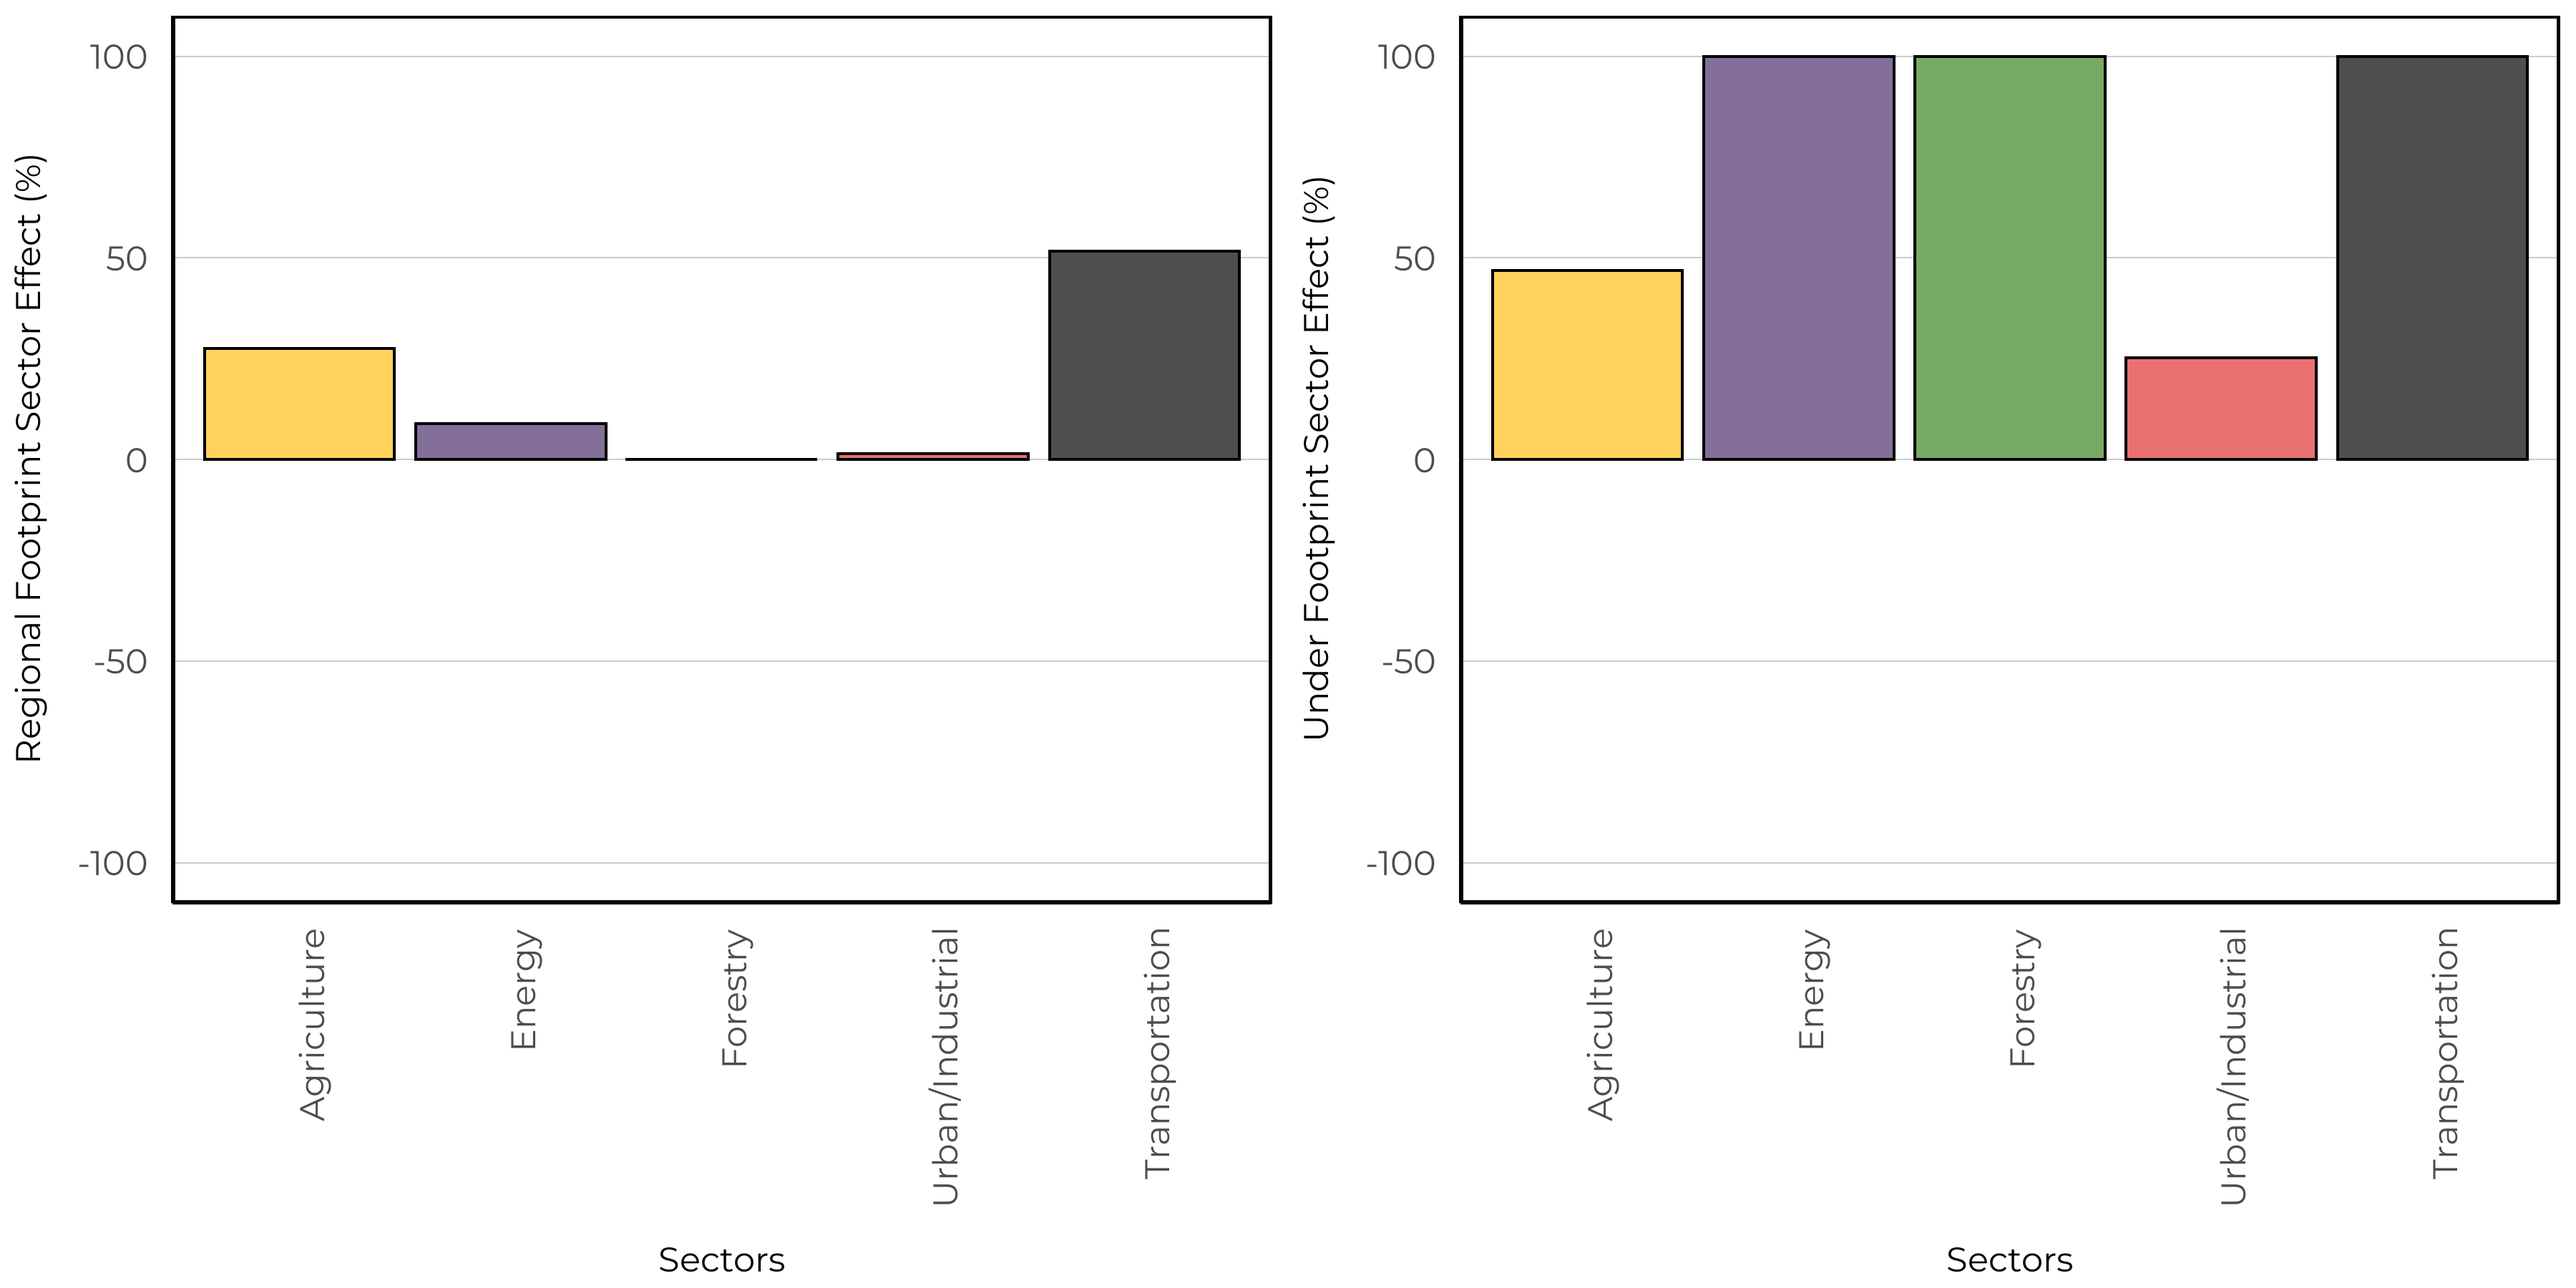
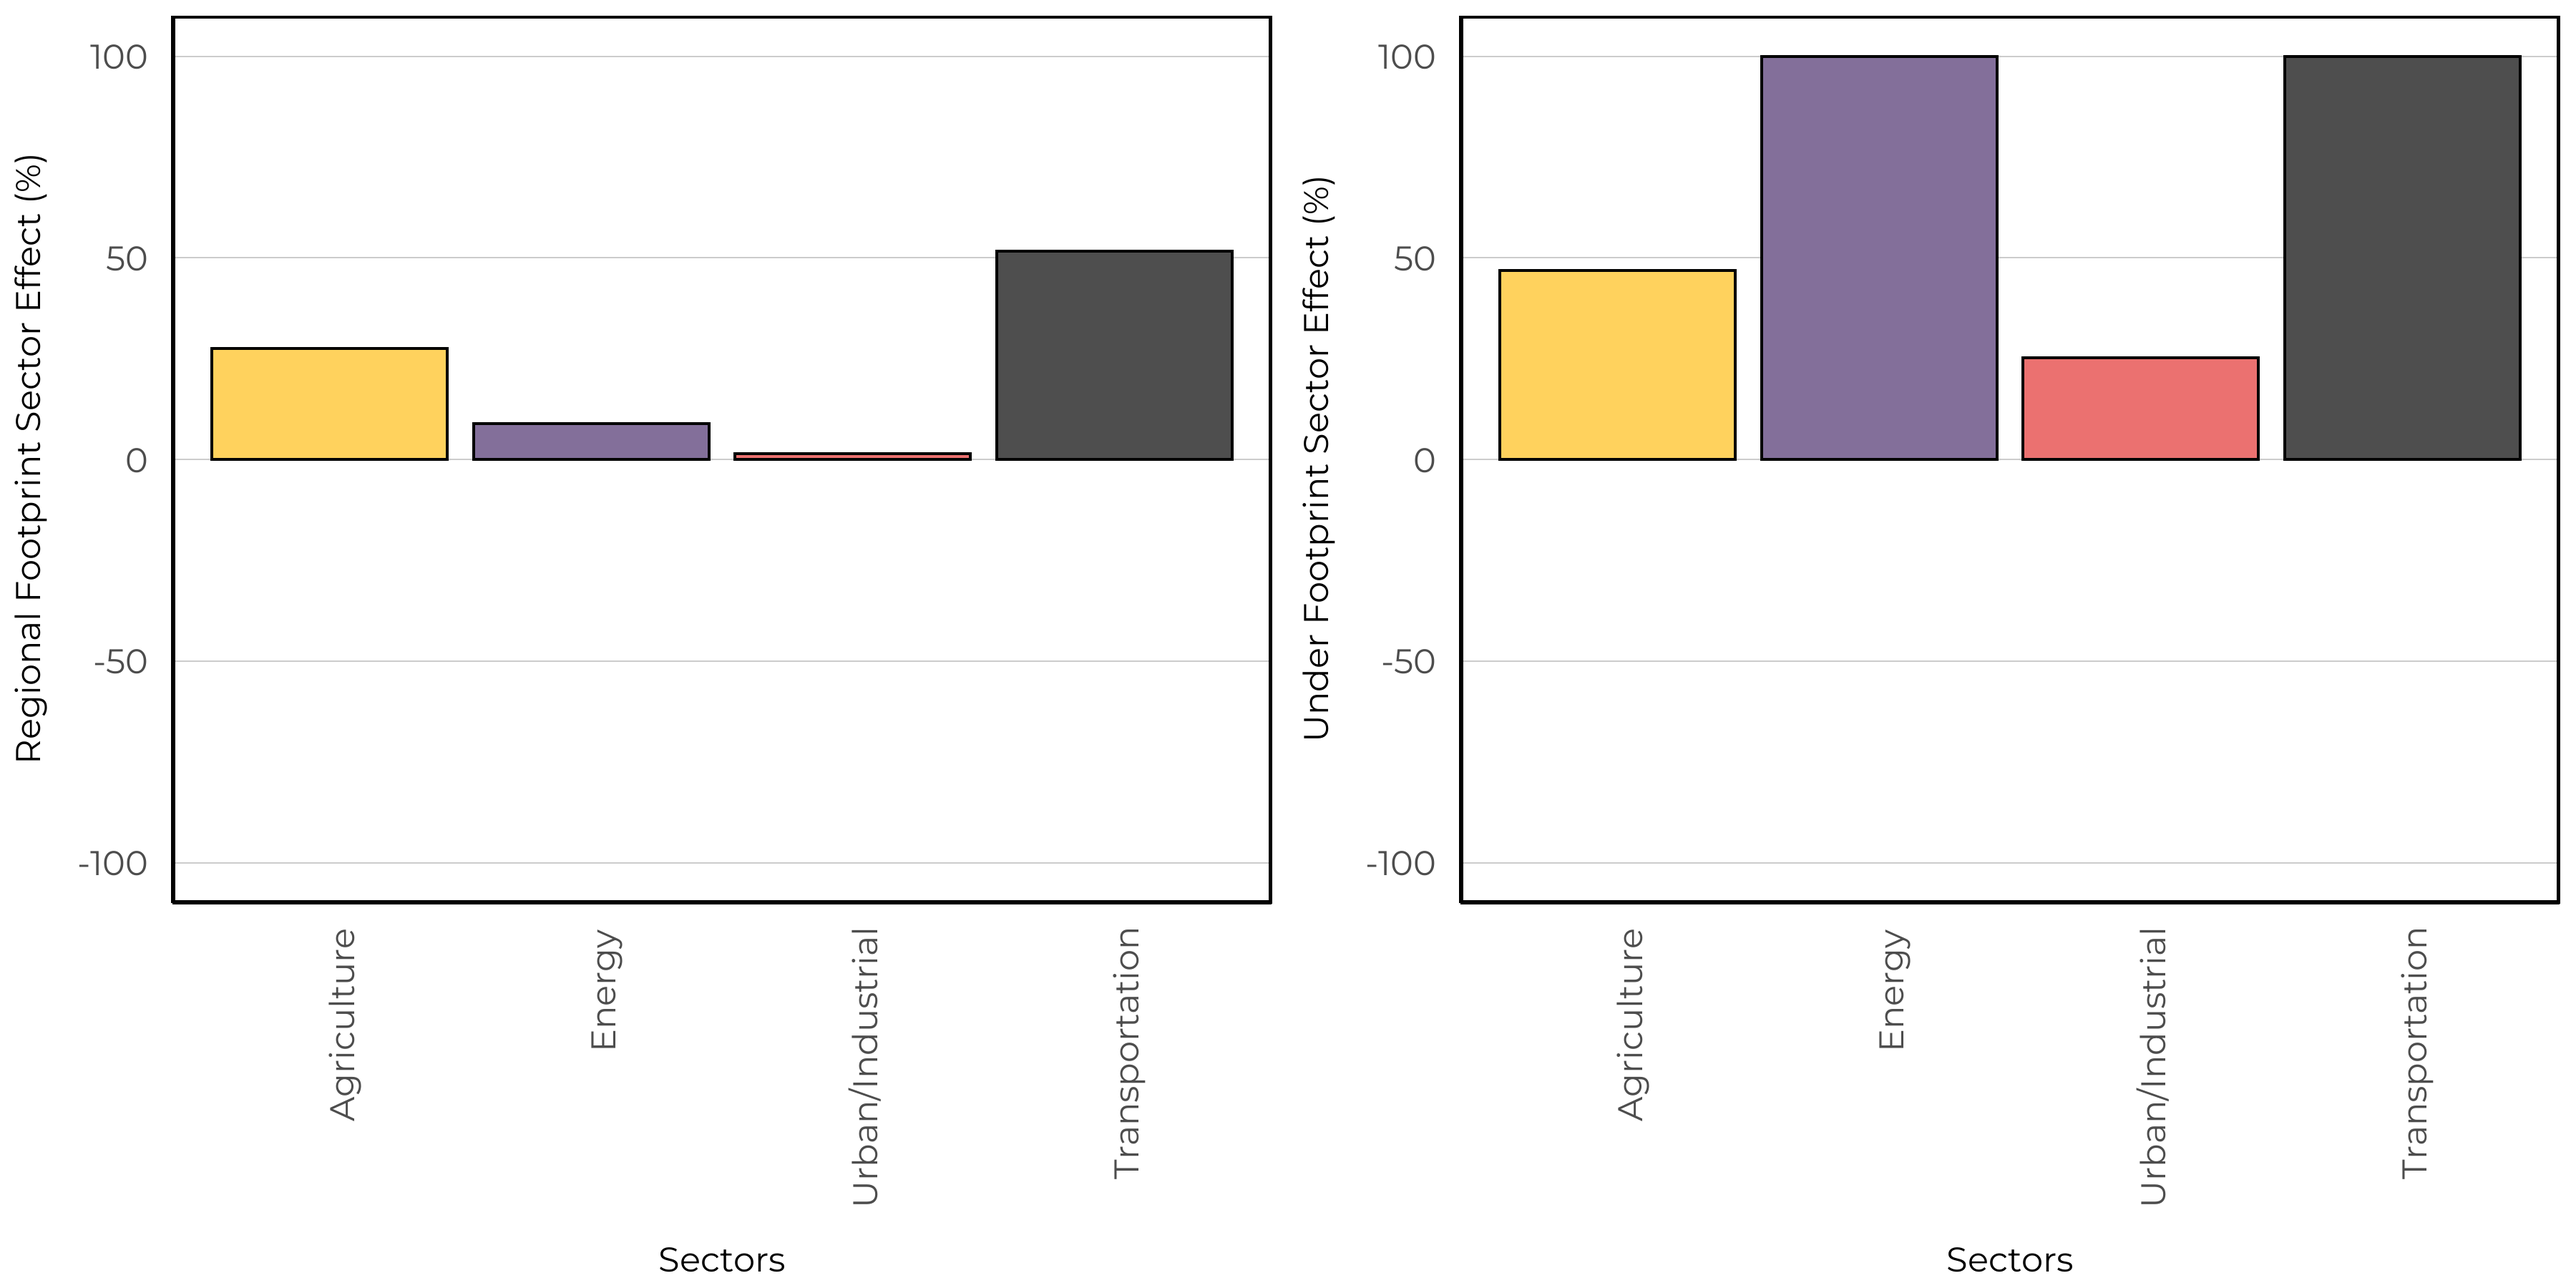
Updated results to properly exclude forestry in the prairie region.

diff --git a/docs/canadian-toad.html b/docs/canadian-toad.html
@@ -310,7 +310,7 @@ div.csl-indent {
 <p>Regional sector effects represent the change in the total regional population by industrial sector for species. This incorporates the area of the footprint, the native habitats where the footprint occurs, and the species response to a particular footprint. Regional population effect values less than 0% indicate a predicted decrease in the regional population due to a particular sector’s footprint, and values greater than 0% indicate a predicted increase.</p>
 <div id="forested-region-1" class="section level3 hasAnchor" number="6.7.1">
 <h3><span class="header-section-number">6.7.1</span> Forested Region<a href="canadian-toad.html#forested-region-1" class="anchor-section" aria-label="Anchor link to header"></a></h3>
-<p>We predicted that Canadian Toad has local negative response to agriculture, energy, forestry, and urban/industrial footprint in this region. There is a small positive response to the transportation sector. However, we only observed small changes in the regional sector effect.</p>
+<p>We predicted that Canadian Toad has local negative response to agriculture, energy, forestry, and urban/industrial footprint in this region. There is a positive response to the transportation sector. However, we only observed small changes in the regional sector effect.</p>
 <center>
 <div class="figure">
 <img src="Amphibians_files/figure-html/sectoreffects/north/CATO.png" alt="" />

diff --git a/docs/western-toad.html b/docs/western-toad.html
@@ -320,7 +320,7 @@ div.csl-indent {
 </div>
 <div id="prairie-region-2" class="section level3 hasAnchor" number="11.7.2">
 <h3><span class="header-section-number">11.7.2</span> Prairie Region<a href="western-toad.html#prairie-region-2" class="anchor-section" aria-label="Anchor link to header"></a></h3>
-<p>We predicted that Western Toad has local positive response to the energy and transportation sectors. In addition, we observe a large positive regional effect of the energy and transportation sectors. However, the abundance of Western Toad within the Prairie region is relatively small compared to the Forested region.</p>
+<p>We predicted that Western Toad has local positive response to the energy and transportation sectors. In addition, we observe a large positive regional effect of the agriculture and transportation sectors. However, the abundance of Western Toad within the Prairie region is relatively small compared to the Forested region.</p>
 <center>
 <div class="figure">
 <img src="Amphibians_files/figure-html/sectoreffects/south/WETO.png" alt="" />

diff --git a/docs/boreal-chorus-frog.html b/docs/boreal-chorus-frog.html
@@ -320,7 +320,7 @@ div.csl-indent {
 </div>
 <div id="prairie-region" class="section level3 hasAnchor" number="5.7.2">
 <h3><span class="header-section-number">5.7.2</span> Prairie Region<a href="boreal-chorus-frog.html#prairie-region" class="anchor-section" aria-label="Anchor link to header"></a></h3>
-<p>We predicted that Boreal Chorus Frog has local positive response to agriculture and urban industrial footprints. However, the responses are strongest for agriculture, forestry, and urban/industrial footprint types. In addition, we observe a small regional effect of agriculture.</p>
+<p>We predicted that Boreal Chorus Frog has local positive response to agriculture and urban industrial footprints. In addition, we observe a moderate regional effect of agriculture.</p>
 <center>
 <div class="figure">
 <img src="Amphibians_files/figure-html/sectoreffects/south/BCFR.png" alt="" />

diff --git a/docs/wood-frog.html b/docs/wood-frog.html
@@ -320,7 +320,7 @@ div.csl-indent {
 </div>
 <div id="prairie-region-3" class="section level3 hasAnchor" number="12.7.2">
 <h3><span class="header-section-number">12.7.2</span> Prairie Region<a href="wood-frog.html#prairie-region-3" class="anchor-section" aria-label="Anchor link to header"></a></h3>
-<p>We predicted that Wood Frog has local negative responses to all sectors within this region. In addition, we observe a small regional effect of agriculture.</p>
+<p>We predicted that Wood Frog has local positive responses to all sectors within this region. In addition, we observe a small positive regional effect of agriculture.</p>
 <center>
 <div class="figure">
 <img src="Amphibians_files/figure-html/sectoreffects/south/WOFR.png" alt="" />
